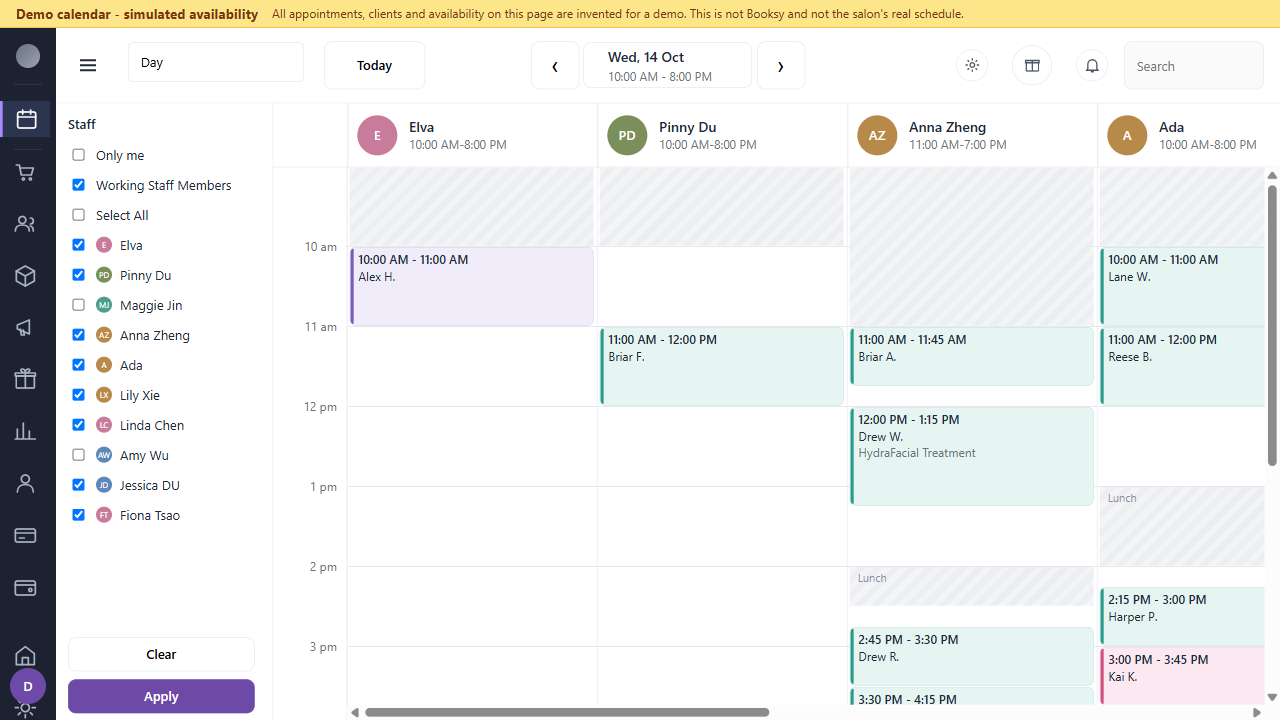
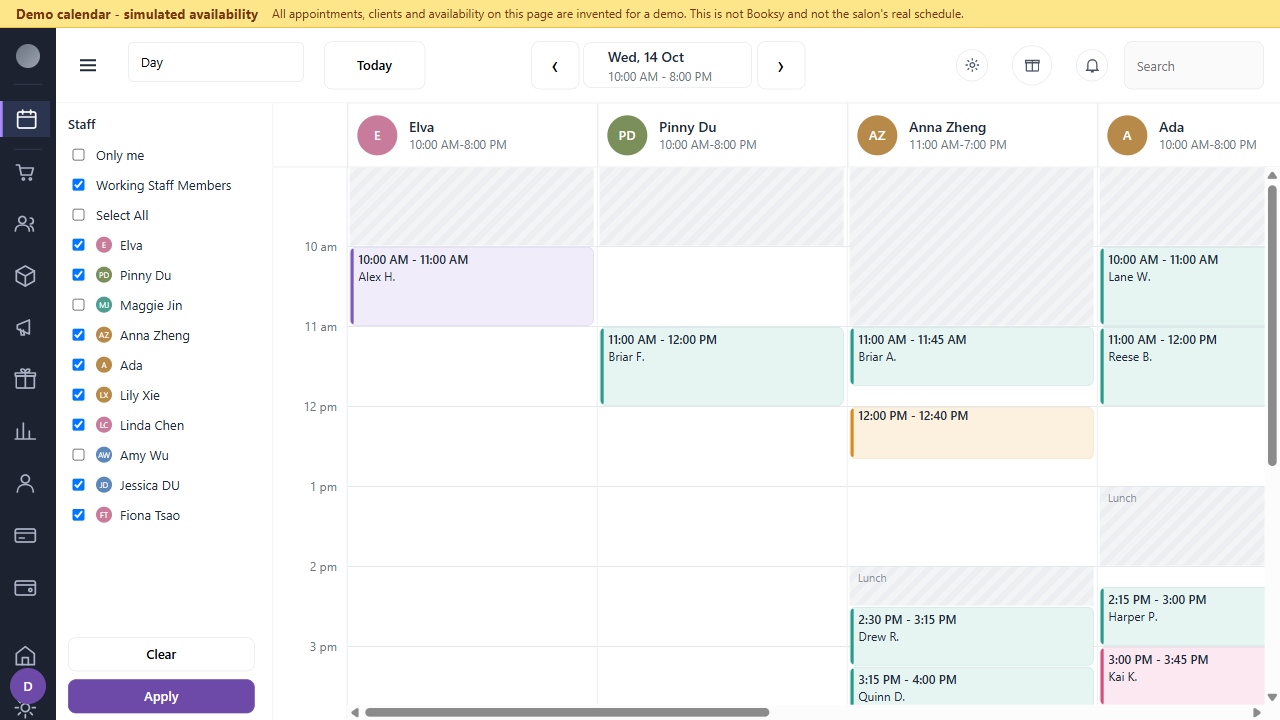
Fix demo review MD1/MD2: restart-stable schedules and scripted labels that match their block lengths
MD1: the generated service pool iterated a frozenset, so Python's per-process hash seed changed which services (and so which busy intervals) a demo day got. Categories are now iterated sorted, in the registry's fixed order; the whole window and the rendered page are identical under any PYTHONHASHSEED (tested over five seeds). MD2: the scripted 11:30 AM Swedish Massage 1 hour block was 90 minutes (now 11:30-12:30) and the 'Eyebrows' block was 30 minutes (now 15); the scripted facials use their real service names. Every visit label in the whole window is now checked against the demo registry's service name and length. Evidence pictures regenerated (they were produced from one random process); a fresh render under another hash seed reproduces them.

Changed region(s): [[0.6562, 0.55, 0.875, 0.7028], [0.6562, 0.825, 0.875, 0.9778]]

diff --git a/booking/tests/test_demo_dataset.py b/booking/tests/test_demo_dataset.py
@@ -231,3 +231,98 @@ def test_an_extra_person_can_be_added_for_ambiguity_tests_without_touching_the_r
     ds = DemoDataset(TODAY, extra_staff=[twin])
     assert len(ds.roster) == len(ROSTER) + 1 and len(ROSTER) == 10
     assert ds.registry.get("massage-swedish-massage-60").eligible("x", "910099")
+
+
+# ---------------------------------------------------------------- review MD1/MD2 (Sol): restarts and labels
+
+
+def _subprocess_json(script: str, seed: str) -> str:
+    import os
+    import subprocess
+    import sys
+    from pathlib import Path
+
+    env = dict(os.environ, PYTHONHASHSEED=seed, PYTHONPATH=str(Path.cwd()))
+    result = subprocess.run([sys.executable, "-c", script], env=env, cwd=Path.cwd(), capture_output=True, text=True, check=True, timeout=60)
+    return result.stdout
+
+
+def test_same_demo_day_repeats_after_process_restart():  # Sol's MD1 reproduction, unchanged in substance
+    script = '''
+import json
+from datetime import date
+from aria_booking.demo.dataset import DemoDataset
+plan = DemoDataset(date(2026, 10, 13)).day_plan(date(2026, 10, 16))
+print(json.dumps([(p.staff.name, p.hours,
+                  [(v.start, v.end, v.service, v.client) for v in p.visits])
+                 for p in plan.plans]))
+'''
+    import json
+
+    schedules = [json.loads(_subprocess_json(script, seed)) for seed in ("1", "2")]
+    assert schedules[0] == schedules[1], "The same demo date changes when Python hash randomization changes across launches"
+
+
+def test_scripted_appointment_label_agrees_with_its_block_length():  # Sol's MD2 reproduction, unchanged in substance
+    from aria_booking.catalog.lookup import duration_hint
+
+    ds = DemoDataset(TODAY)
+    mismatches = []
+    for day in ds.scripted_days:
+        for plan in ds.day_plan(day).plans:
+            for visit in plan.visits:
+                stated = duration_hint(visit.service)
+                actual = visit.end - visit.start
+                if stated is not None and stated != actual:
+                    mismatches.append((day.isoformat(), plan.staff.name, visit.service, stated, actual))
+    assert not mismatches, mismatches
+
+
+def test_the_whole_window_and_the_page_are_identical_under_any_hash_seed():
+    script = '''
+import hashlib
+from datetime import date, timedelta
+from aria_booking.demo.dataset import DemoDataset
+from aria_booking.demo.page import render_page
+ds = DemoDataset(date(2026, 10, 13))
+digest = hashlib.sha256()
+day = ds.first_day
+while day <= ds.last_day:
+    digest.update(repr([(p.staff.staff_id, p.hours, p.breaks, p.visits) for p in ds.day_plan(day).plans]).encode())  # data only: a frozenset's repr order is not data
+    digest.update(render_page(ds, day).encode())
+    day += timedelta(days=1)
+print(digest.hexdigest())
+'''
+    digests = {_subprocess_json(script, seed).strip() for seed in ("0", "1", "2", "3", "random")}
+    assert len(digests) == 1, "every covered day (schedule AND page) must be the same in every fresh process"
+
+
+def test_the_service_pool_is_built_in_a_fixed_order_not_from_a_set(dataset):
+    import inspect
+
+    from aria_booking.demo import dataset as module
+
+    assert "sorted(staff.categories)" in inspect.getsource(module.DemoDataset._generated)
+
+
+def test_every_visit_label_is_a_real_demo_service_whose_length_matches_its_block(dataset):
+    lengths = {dataset.registry.get(i).booksy_name: dataset.registry.get(i).duration_minutes for i in dataset.registry.ids()}
+    checked = 0
+    day = dataset.first_day
+    while day <= dataset.last_day:
+        for plan in dataset.day_plan(day).plans:
+            for visit in plan.visits:
+                assert visit.service in lengths, f"{visit.service!r} is not a demo service name"
+                assert lengths[visit.service] == visit.end - visit.start, (day, plan.staff.name, visit)
+                checked += 1
+        day += timedelta(days=1)
+    assert checked > 500
+
+
+def test_the_scripted_four_pm_examples_still_hold_after_the_label_fix(dataset):
+    first = dataset.scripted_days[0]
+    lily = plan_of(dataset, first, "Lily Xie")
+    assert [(v.start, v.end, v.service) for v in lily.visits] == [(690, 750, "Swedish Massage, 1 hour")]
+    assert all(v.end <= minute("15:00") for v in lily.visits), "she is still free from 3 PM, so 4 PM stays available"
+    linda = plan_of(dataset, first, "Linda Chen")
+    assert [(v.start, v.end, v.service) for v in linda.visits] == [(600, 615, "Eyebrows")]

diff --git a/booking/aria_booking/demo/dataset.py b/booking/aria_booking/demo/dataset.py
@@ -197,7 +197,8 @@ class DemoDataset:
         visits: list[Visit] = []
         if staff.hours_known:
             utilisation = 0.7 if day.weekday() >= 5 else 0.5
-            pool = [s for c in staff.categories for s in self._services.get(c, [])]
+            # canonical order (categories sorted, services in the registry's fixed order): iterating the frozenset would reorder with Python's per-process hash seed
+            pool = [s for c in sorted(staff.categories) for s in self._services.get(c, [])]
             cursor = start
             while pool and cursor + 30 <= end:
                 blocked = next((b for b in breaks if b.start <= cursor < b.end), None)
@@ -247,10 +248,10 @@ class DemoDataset:
 # (a 60-minute massage at 4:00 fits the gap only without its 15-minute buffer, a 90-minute one crosses the visit);  Linda on a 3-5 PM break;
 # Amy Wu is off; Fiona's hours are not shown (unknown).
 _SCRIPT_FIRST: dict = {
-    "Lily Xie": ((600, 1200), (), [(690, 780, "Swedish Massage, 1 hour", "massage")]),
+    "Lily Xie": ((600, 1200), (), [(690, 750, "Swedish Massage, 1 hour", "massage")]),
     "Elva": ((600, 1200), (), [(600, 660, "Hot Stone Massage, 1 hour", "massage"), (945, 1035, "Deep Tissue Massage, 1 hour 30 minutes", "massage")]),
-    "Pinny Du": ((600, 1200), (), [(660, 720, "Signature Facial, 1 hour", "facial"), (1020, 1080, "Back Facial, 1 hour", "facial")]),
-    "Linda Chen": ((600, 1200), ((900, 1020, "Break"),), [(600, 630, "Eyebrows", "waxing")]),
+    "Pinny Du": ((600, 1200), (), [(660, 720, "Signature Facial", "facial"), (1020, 1080, "Back Facial", "facial")]),
+    "Linda Chen": ((600, 1200), ((900, 1020, "Break"),), [(600, 615, "Eyebrows", "waxing")]),
     "Amy Wu": "off",
     "Fiona Tsao": ((600, 1200), (), []),
 }
